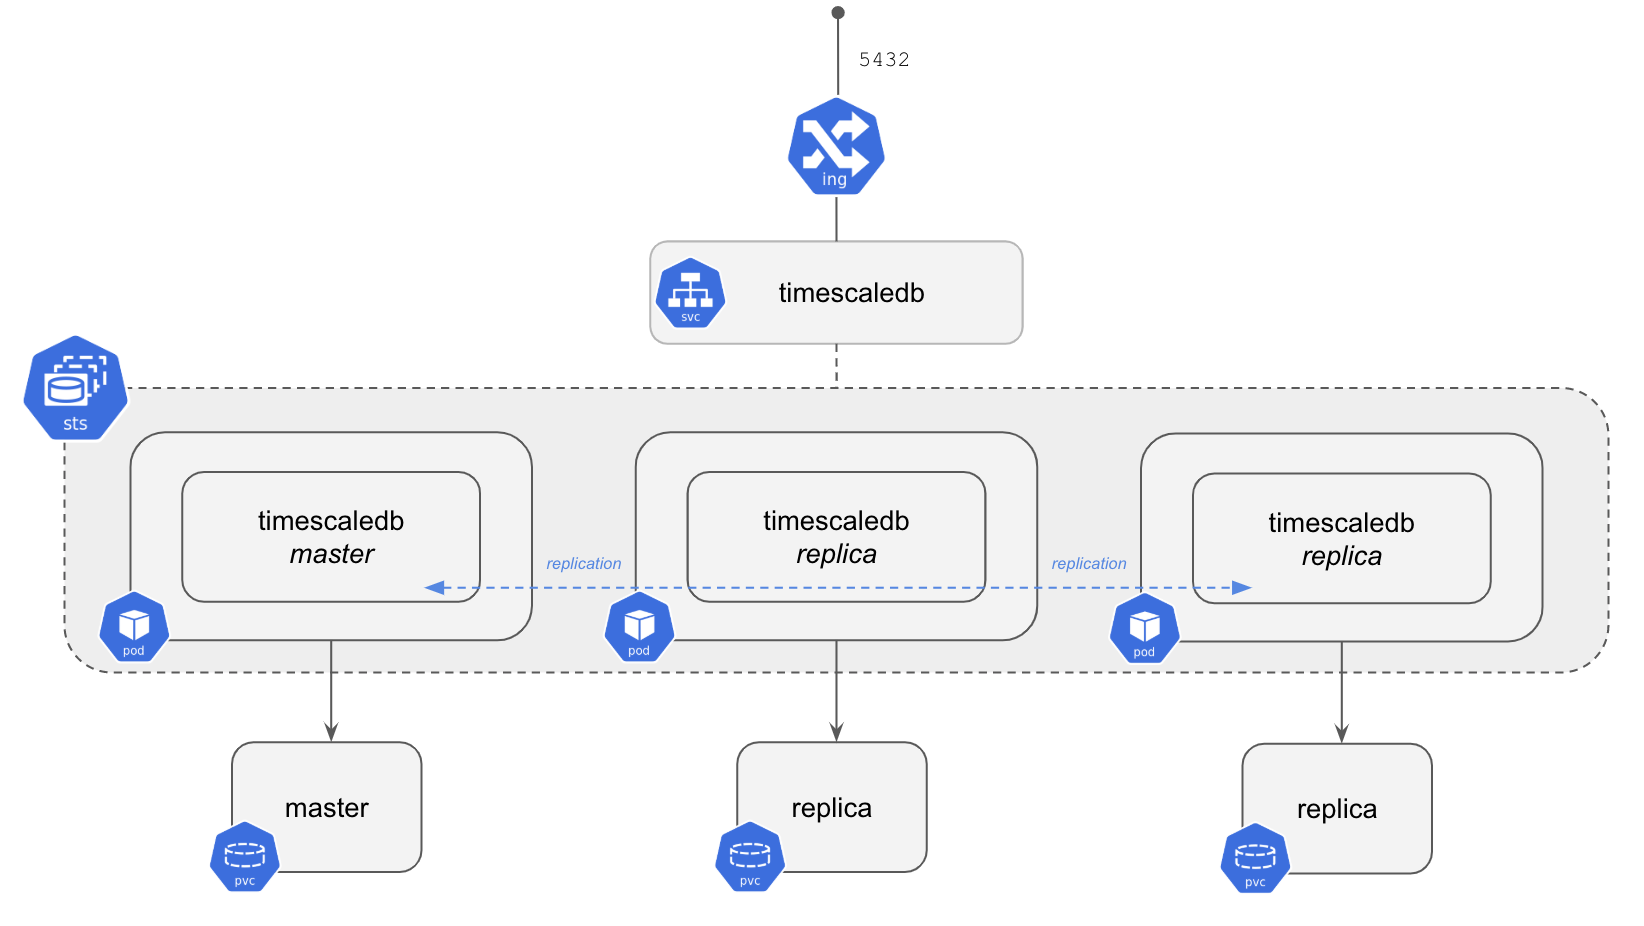
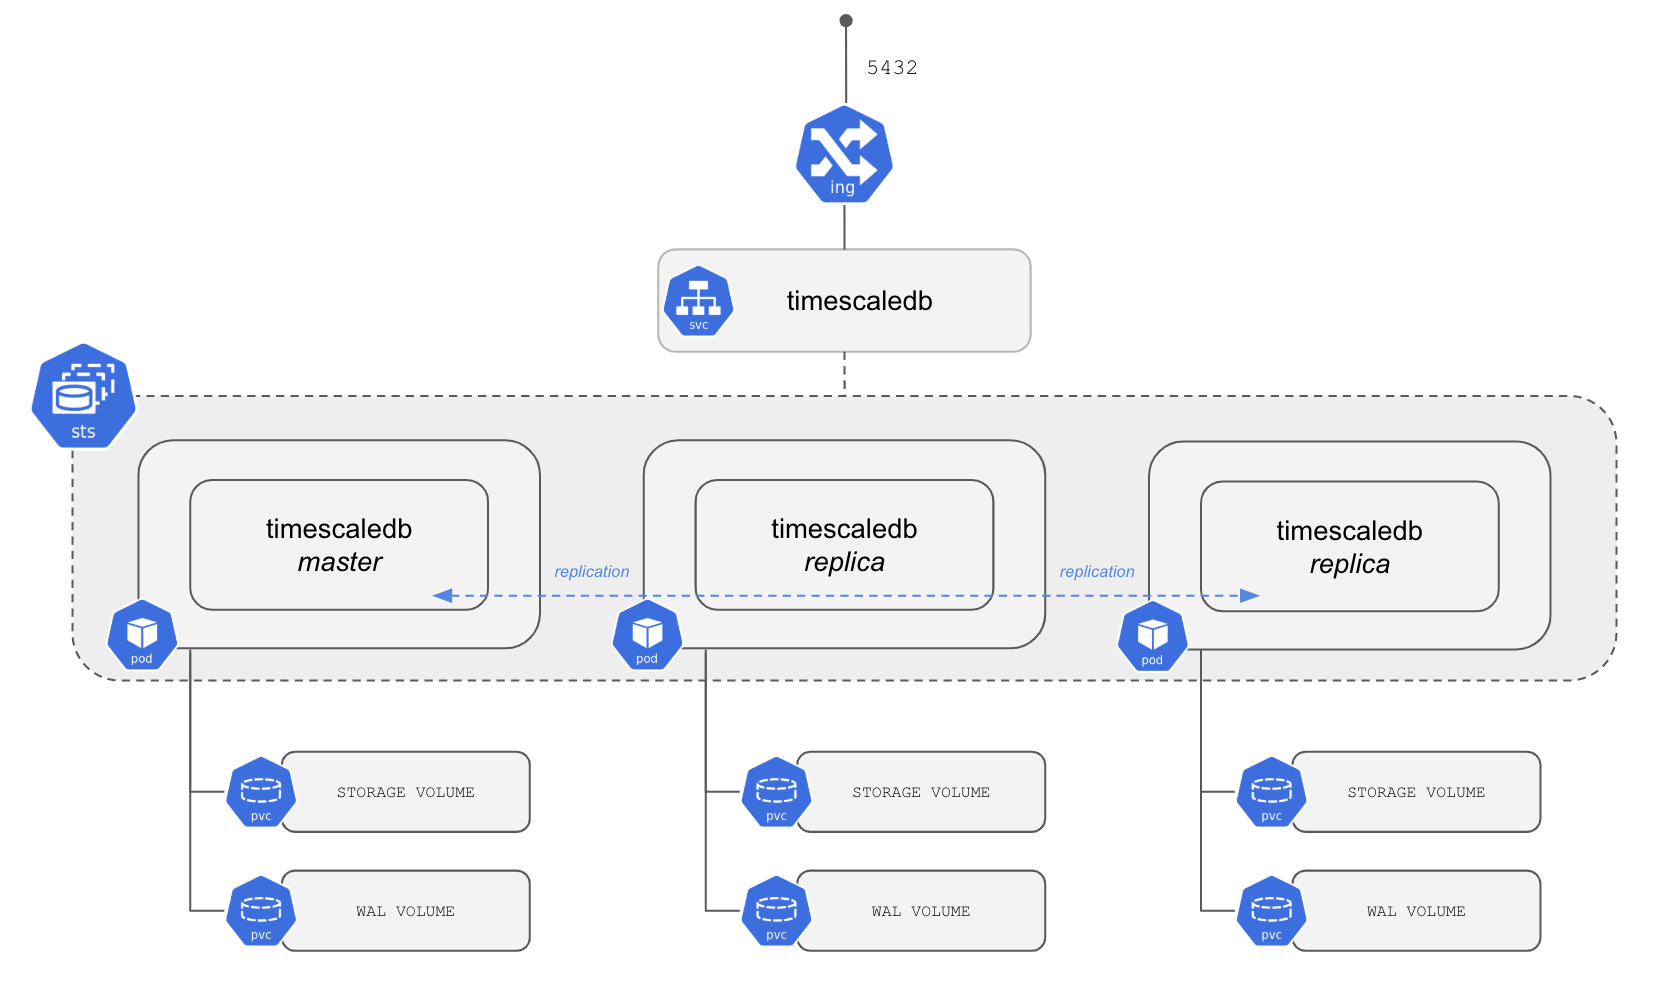
Allow WAL to be stored on its own Volume
To quote the PostgreSQL manual[1]:

   It is advantageous if the log is located on a different disk from the
   main database files. This can be achieved by moving the pg_wal
   directory to another location (while the server is shut down,
   of course) and creating a symbolic link from the original location in
   the main data directory to the new location.

With this commit running WAL on a different volume from the data volume
is trivial. No huge benefits will be available straight away, but with
this commit we can start exploring different storage classes for the
different volumes, e.g. experiment with local disks for WAL and EBS
Volumes for PGDATA.

The configuration of Patroni is the same with or without a separate
volume:
If no WAL volume is created, the WAL files are stored on the
same Volume as the data, and a symlink is created to that outside
directory. However, when a WAL Volume is specified, the symlink points
to a directory outside the Data Volume.
This allows us to migrate from a deployment without a separate WAL
volume to one with a separate WAL Volume: Rescheduling the pod should
suffice.

Switching the mountPaths from /home/postgres to /var/lib/postgresql
brings us back in line with Debian and the official Docker image of
PostgreSQL[2], the only reason we used /home/postgres is the heritage of
these Helm charts and their Spilo dependency.

We do not use these mountpoints directly, as that is deemed unwise,
again we can quote the PostgreSQL manual[3]:
[…]

diff --git a/charts/timescaledb-single/admin-guide.md b/charts/timescaledb-single/admin-guide.md
@@ -36,12 +36,15 @@ The following table lists the configurable parameters of the TimescaleDB Helm ch
 | `affinityTemplate`                | A template string to use to generate the affinity settings | Anti-affinity preferred on hostname  |
 | `affinity`                        | Affinity settings. Overrides `affinityTemplate` if set. | `{}`                                    |
 | `schedulerName`                   | Alternate scheduler name                    | `nil`                                               |
-| `persistentVolume.accessModes`    | Persistent Volume access modes              | `[ReadWriteOnce]`                                   |
-| `persistentVolume.annotations`    | Annotations for Persistent Volume Claim`    | `{}`                                                |
-| `persistentVolume.mountPath`      | Persistent Volume mount root path           | `/home/postgres/pgdata`                             |
-| `persistentVolume.size`           | Persistent Volume size                      | `2Gi`                                               |
-| `persistentVolume.storageClass`   | Persistent Volume Storage Class             | `volume.alpha.kubernetes.io/storage-class: default` |
-| `persistentVolume.subPath`        | Subdirectory of Persistent Volume to mount  | `""`                                                |
+| `persistentVolumes.data.enabled`  | If enabled, use a Persistent Data Volume    | `true`                                              |
+| `persistentVolumes.data.mountPath`| Persistent Data Volume mount root path      | `/var/lib/postgresql/`                              |
+| `persistentVolumes.wal.enabled`   | If enabled, use a Persistent Wal Volume     | `false` (WAL will be stored inside the Data Volume) |
+| `persistentVolumes.wal.mountPath` | Persistent Wal Volume mount root path       | `/var/lib/postgresql/wal/`                          |
+| `persistentVolumes.<name>.accessModes` | Persistent Volume access modes         | `[ReadWriteOnce]`                                   |
+| `persistentVolumes.<name>.annotations` | Annotations for Persistent Volume Claim| `{}`                                                |
+| `persistentVolumes.<name>.size`   | Persistent Volume size                      | `2Gi`                                               |
+| `persistentVolumes.<name>.storageClass`| Persistent Volume Storage Class        | `volume.alpha.kubernetes.io/storage-class: default` |
+| `persistentVolumes.<name>.subPath`| Subdirectory of Persistent Volume to mount  | `""`                                                |
 | `rbac.create`                     | Create required role and rolebindings       | `true`                                              |
 | `serviceAccount.create`           | If true, create a new service account       | `true`                                              |
 | `serviceAccount.name`             | Service account to be used. If not set and `serviceAccount.create` is `true`, a name is generated using the fullname template | `nil` |
